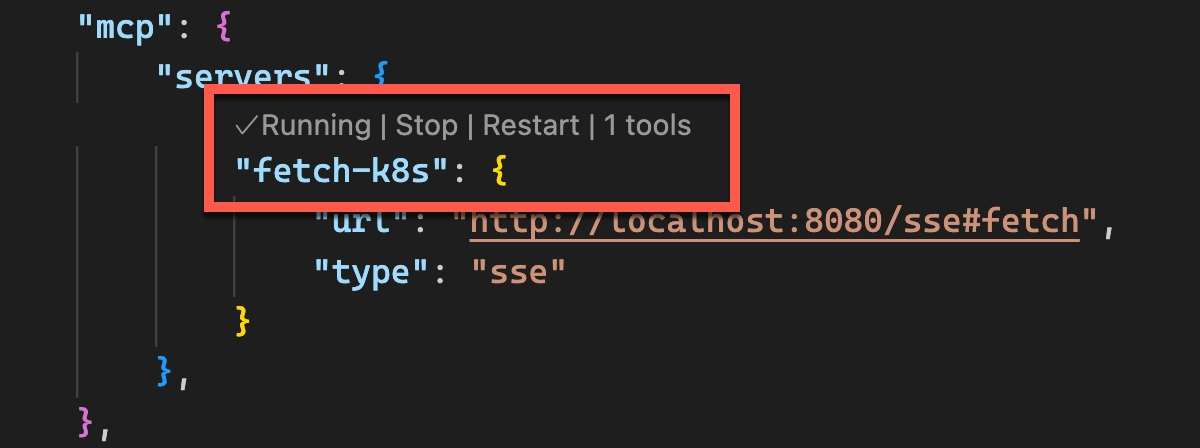
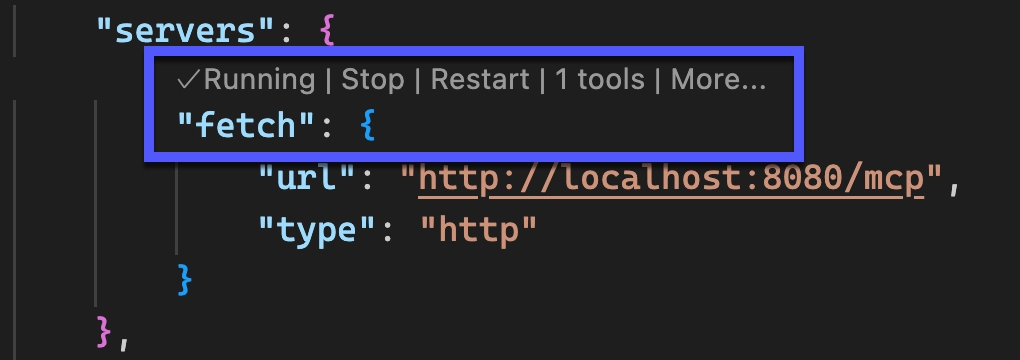
Fix K8s guides
- New VS Code process
- GoFetch uses streamable-http now
- Fix supported K8s versions

diff --git a/docs/toolhive/guides-k8s/deploy-operator-helm.md b/docs/toolhive/guides-k8s/deploy-operator-helm.md
@@ -10,7 +10,7 @@ Kubernetes cluster.
 
 ## Prerequisites
 
-- A Kubernetes cluster (v1.19+)
+- A Kubernetes cluster (current and two previous minor versions are supported)
 - Permissions to create resources in the cluster
 - [`kubectl`](https://kubernetes.io/docs/tasks/tools/) configured to communicate
   with your cluster
@@ -62,7 +62,7 @@ and set a specific ToolHive version, create a `values.yaml` file:
 ```yaml title="values.yaml"
 operator:
   replicaCount: 2
-  toolhiveRunnerImage: ghcr.io/stacklok/toolhive:v0.0.42 # or `latest`
+  toolhiveRunnerImage: ghcr.io/stacklok/toolhive:v0.1.8 # or `latest`
 ```
 
 Install the operator with your custom values:

diff --git a/docs/toolhive/guides-k8s/run-mcp-k8s.md b/docs/toolhive/guides-k8s/run-mcp-k8s.md
@@ -6,7 +6,7 @@ sidebar_position: 20
 
 ## Prerequisites
 
-- A Kubernetes cluster (v1.19+)
+- A Kubernetes cluster (current and two previous minor versions are supported)
 - Permissions to create resources in the cluster
 - [`kubectl`](https://kubernetes.io/docs/tasks/tools/) configured to communicate
   with your cluster
@@ -210,7 +210,7 @@ format, so you can use any valid pod specification options.
 
 This example sets resource limits.
 
-```yaml {13-14} title="my-mcpserver-custom-pod.yaml"
+```yaml {14-15} title="my-mcpserver-custom-pod.yaml"
 apiVersion: toolhive.stacklok.dev/v1alpha1
 kind: MCPServer
 metadata:
